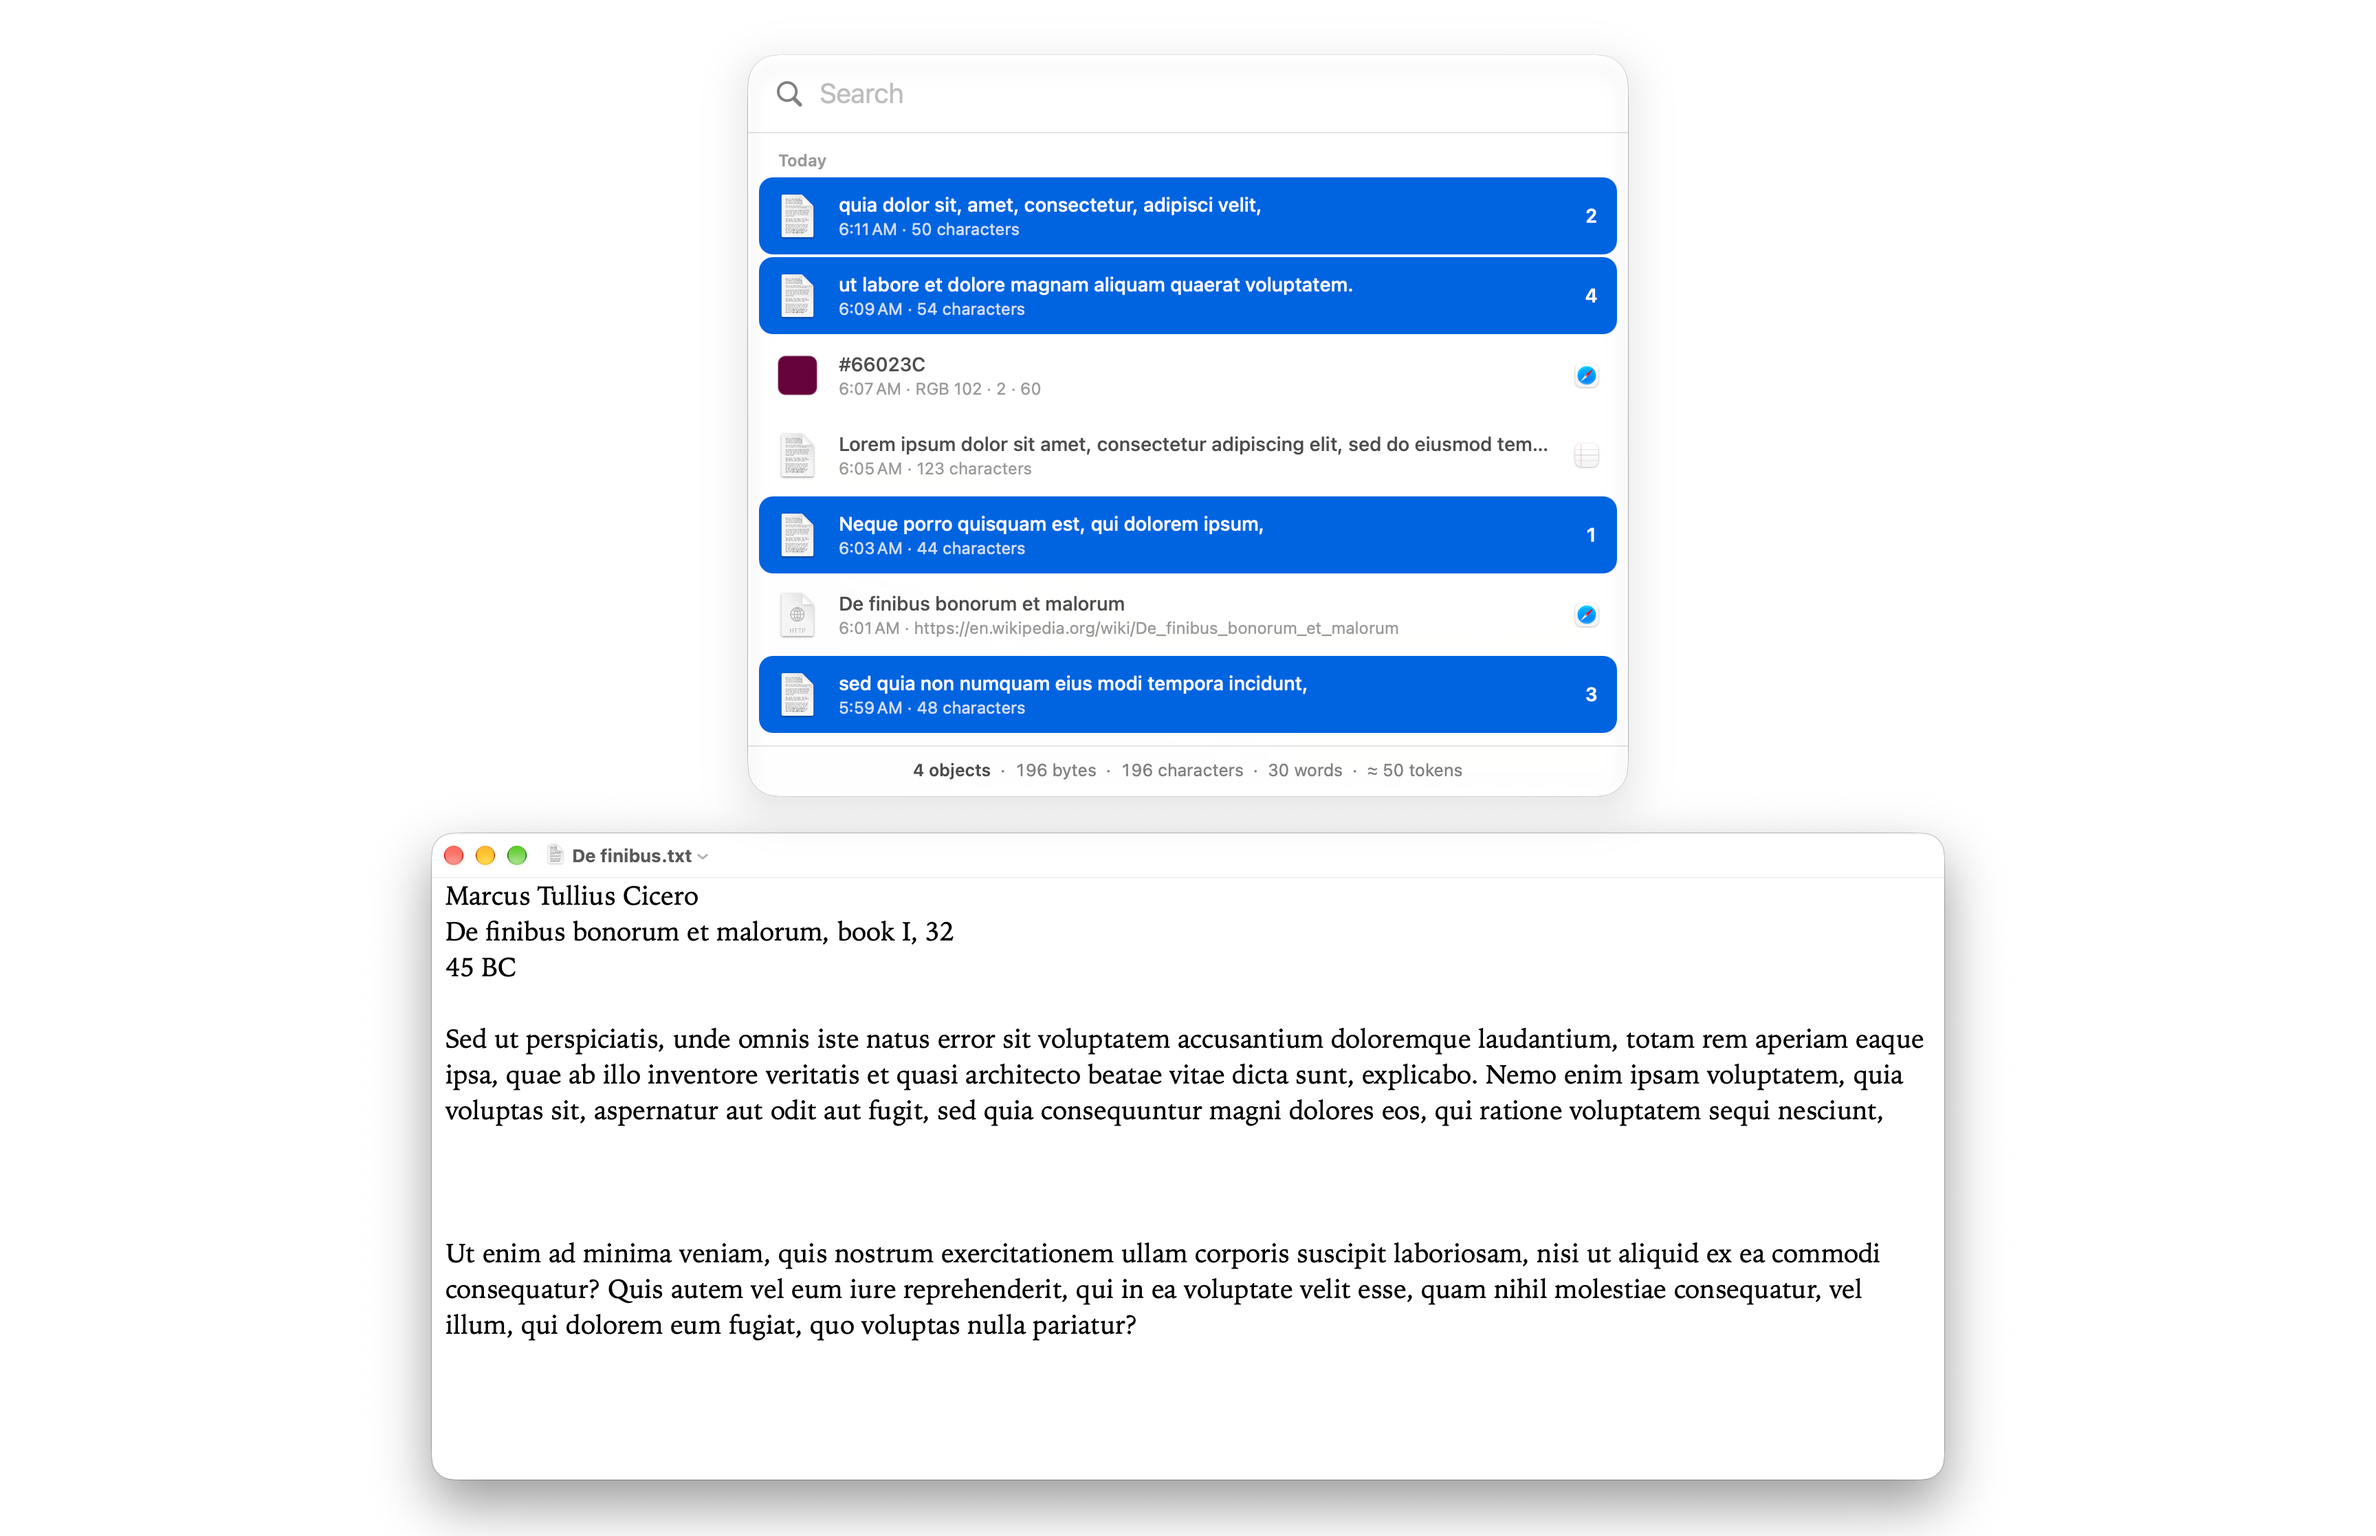
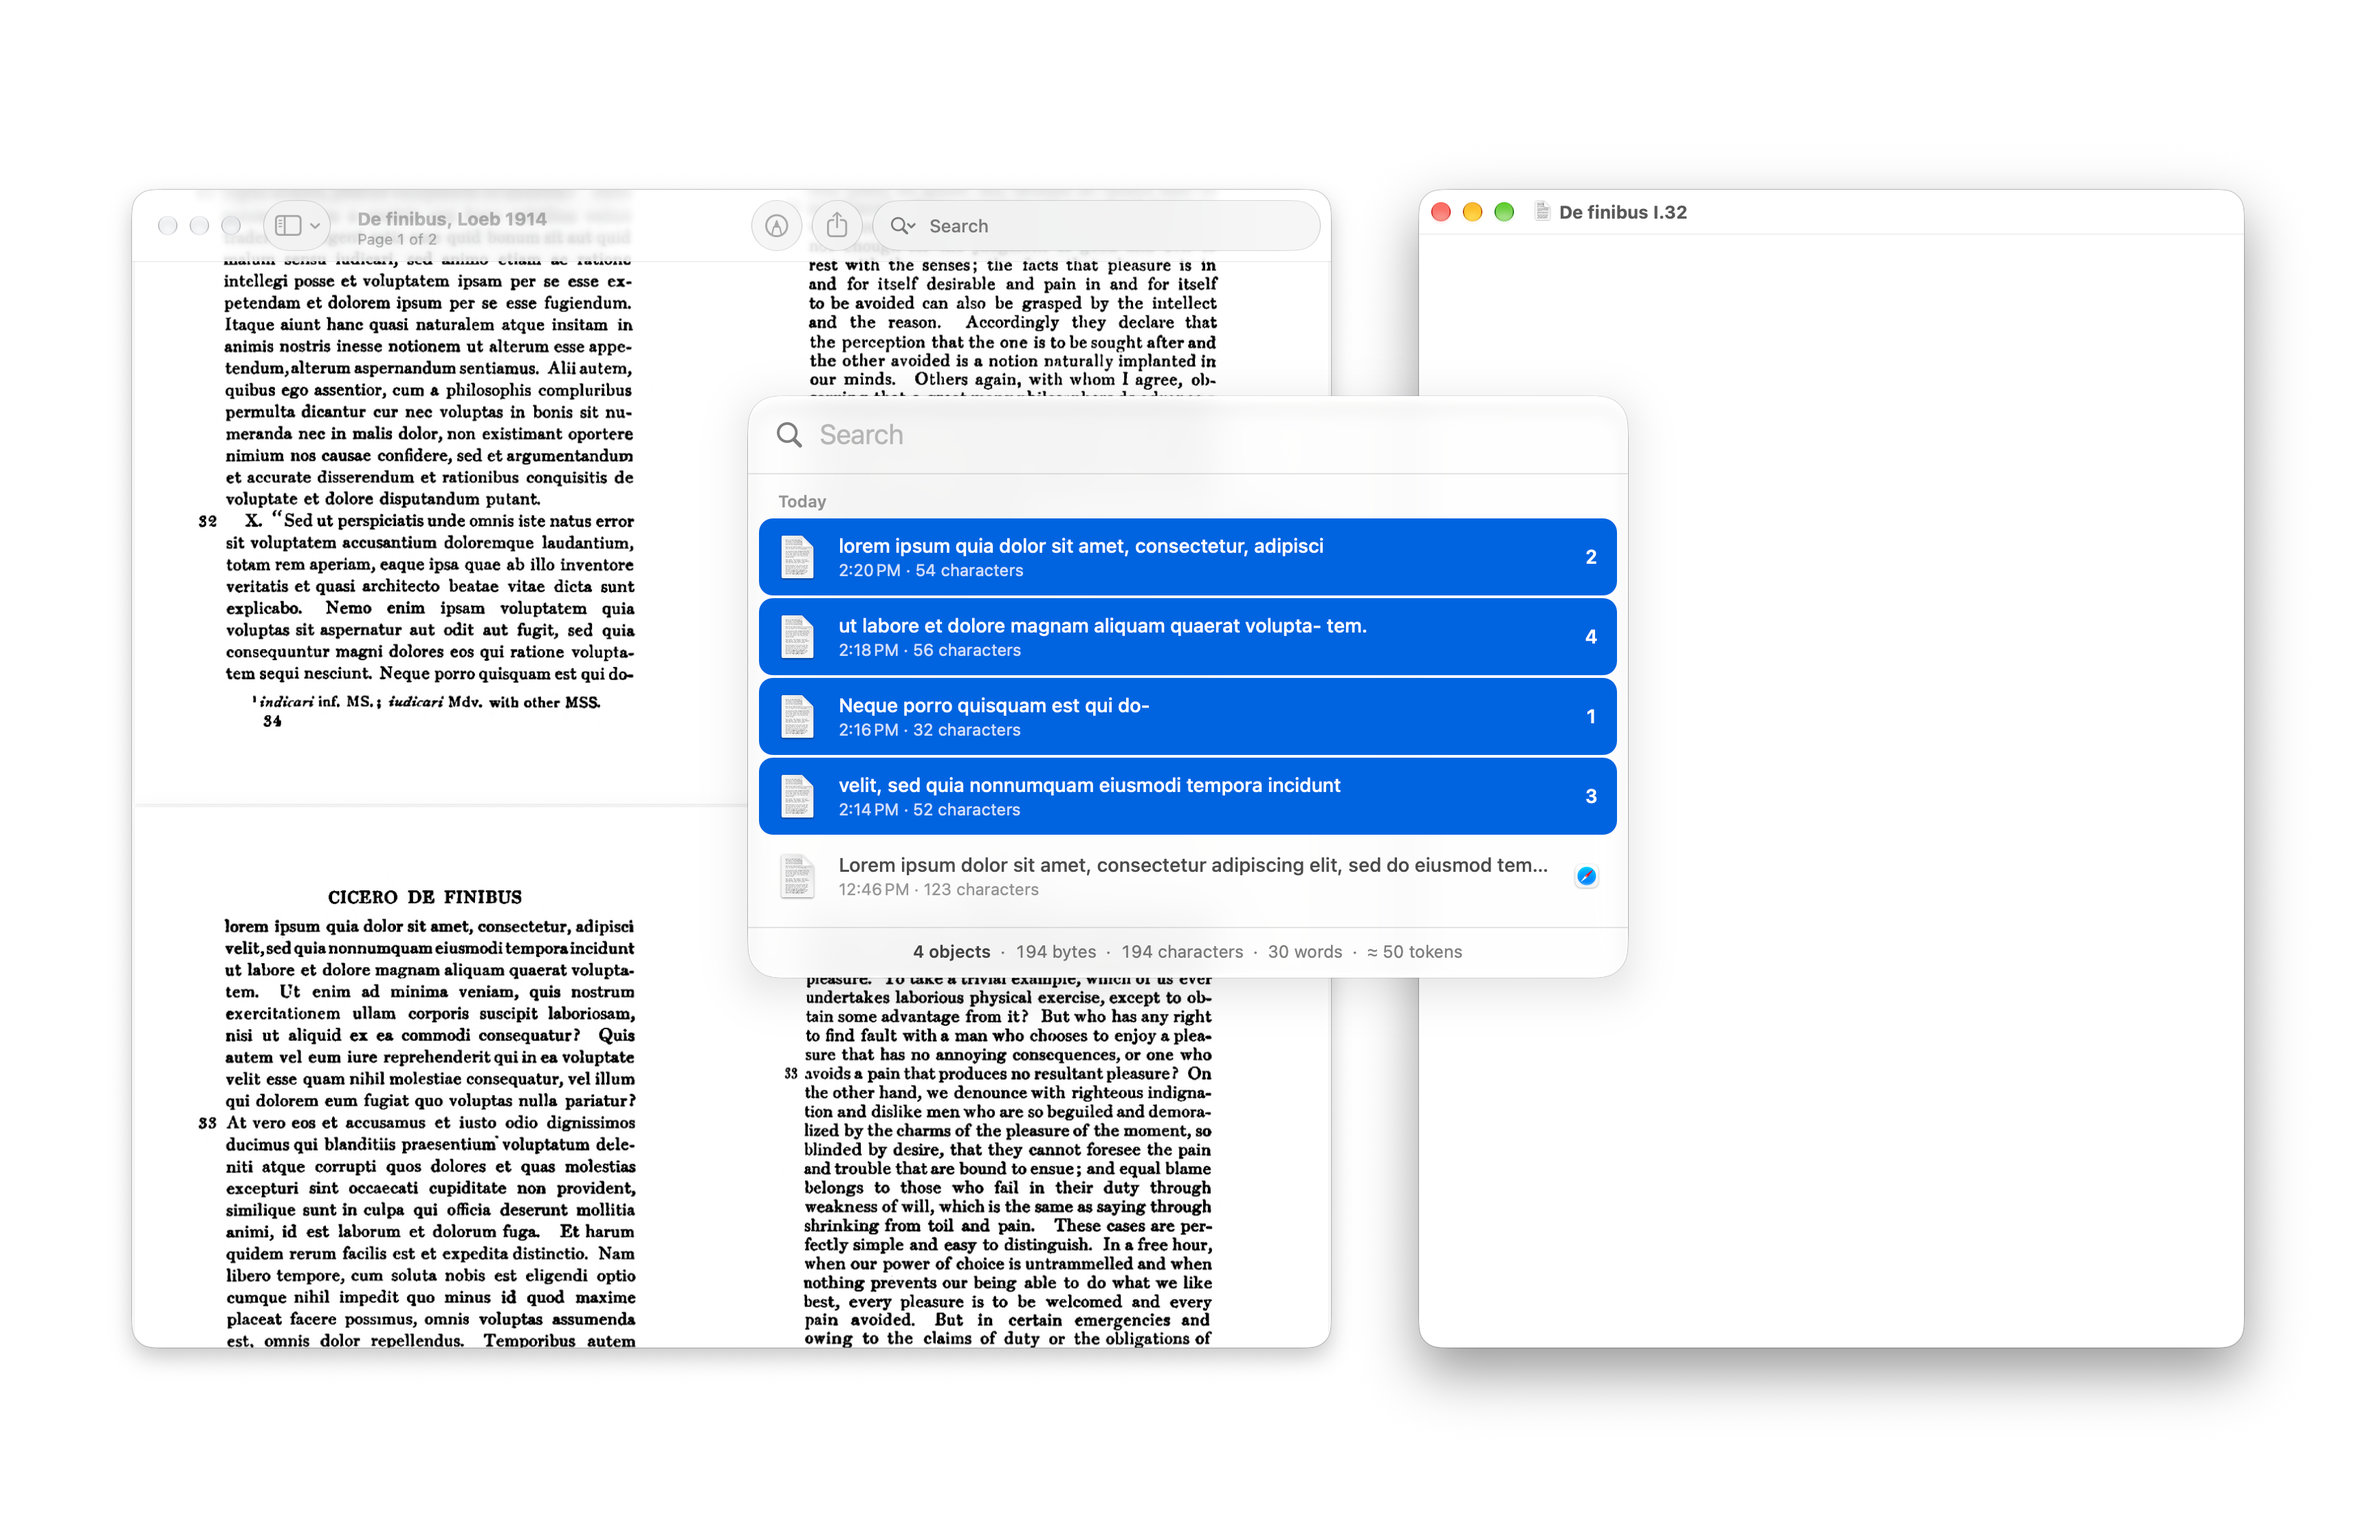
README: new screenshots
Reshot 2026-11-26 on macOS 27, light and dark pairs, lossless WebP.

Changed region(s): [[0.0625, 0.0618, 0.9688, 1.0], [0.0938, 0.1235, 0.2812, 0.4633]]

diff --git a/README.md b/README.md
@@ -4,6 +4,10 @@
 
 Clipboard manager for Mac. Keeps every copy and pastes several at once or one by one.
 
+<picture><source media="(prefers-color-scheme: dark)" srcset="docs/scene.webp"><img src="docs/scene-light.webp" width="830" alt="Cicero’s De finibus (Loeb, 1914) in Preview at the page break that cut “dolorem” and gave typesetters “Lorem ipsum”; over it Copia’s history with four copied lines picked in reading order, numbered 2, 4, 1, 3, and an empty TextEdit beside it"></picture>
+
+<picture><source media="(prefers-color-scheme: dark)" srcset="docs/scene-after.webp"><img src="docs/scene-after-light.webp" width="830" alt="After Return: the four lines pasted into TextEdit as one text, in the order picked"></picture>
+
 Apple silicon, macOS 13 or later.
 
 ## Install
